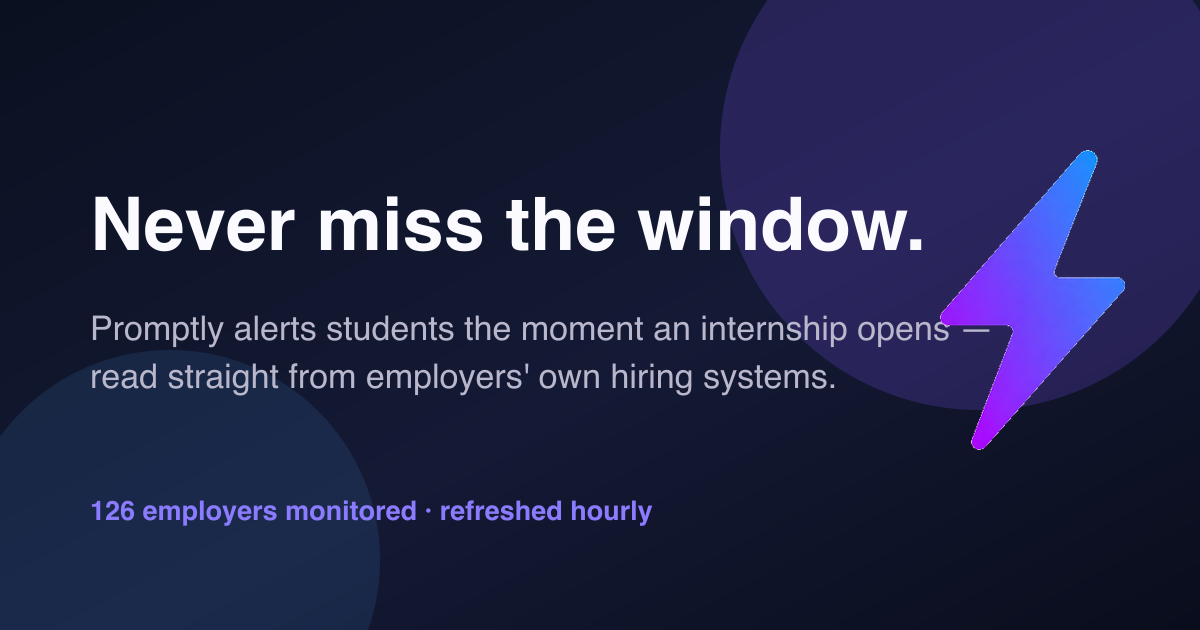
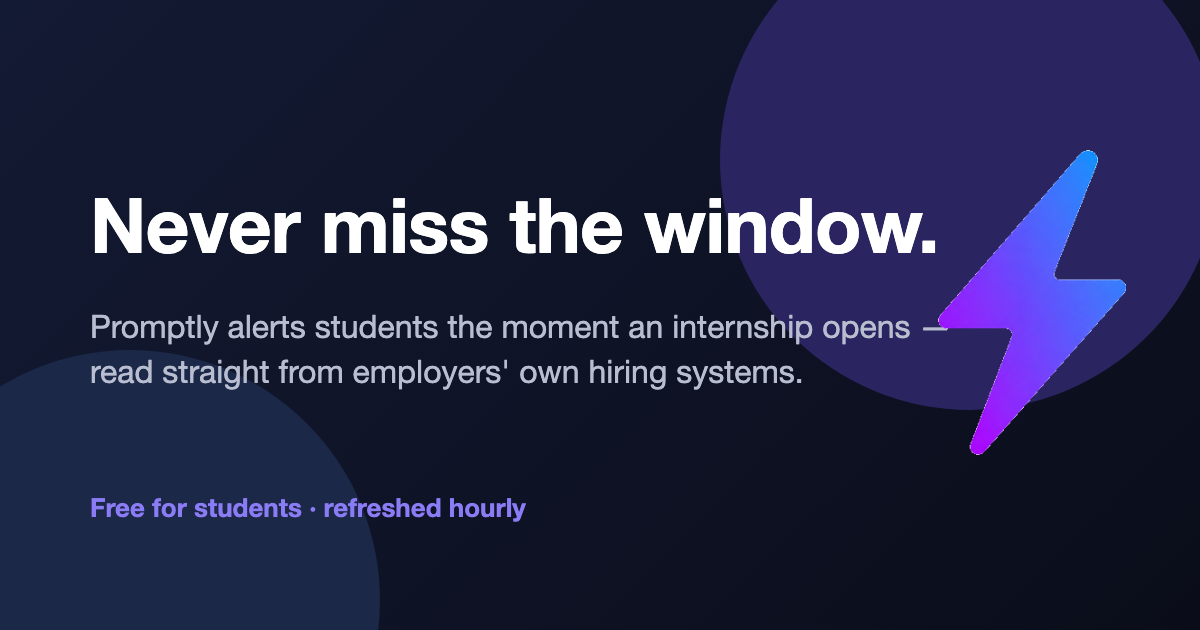
Replace stale 126-employer count on social share card
The OG/Twitter card image still said 126 employers while the page says 373.
Drop the hardcoded count so it cannot go stale again, and version the image
URL so X and other crawlers refetch it.

diff --git a/index.html b/index.html
@@ -21,14 +21,14 @@
     <meta property="og:title" content="Promptly | Never miss an internship opening" />
     <meta property="og:description" content="Alerts students the moment an internship opens, read straight from employers' own hiring systems. 373 employers monitored, refreshed hourly." />
     <meta property="og:url" content="https://app.joinpromptly.co/" />
-    <meta property="og:image" content="https://app.joinpromptly.co/assets/og-card.png" />
+    <meta property="og:image" content="https://app.joinpromptly.co/assets/og-card.png?v=20260911c" />
     <meta property="og:image:width" content="1200" />
     <meta property="og:image:height" content="630" />
     <meta property="og:image:alt" content="Promptly — never miss the window." />
     <meta name="twitter:card" content="summary_large_image" />
     <meta name="twitter:title" content="Promptly | Never miss an internship opening" />
     <meta name="twitter:description" content="Alerts students the moment an internship opens. 373 employers monitored, refreshed hourly." />
-    <meta name="twitter:image" content="https://app.joinpromptly.co/assets/og-card.png" />
+    <meta name="twitter:image" content="https://app.joinpromptly.co/assets/og-card.png?v=20260911c" />
     <link rel="stylesheet" href="styles.css?v=20260911c" />
   </head>
   <body class="onboarding-active launch-active">

diff --git a/how-it-works.html b/how-it-works.html
@@ -15,13 +15,13 @@
     <meta property="og:title" content="How Promptly works" />
     <meta property="og:description" content="Exactly how Promptly finds internships: which hiring systems we read, how postings are verified, and what we cannot see." />
     <meta property="og:url" content="https://app.joinpromptly.co/how-it-works" />
-    <meta property="og:image" content="https://app.joinpromptly.co/assets/og-card.png" />
+    <meta property="og:image" content="https://app.joinpromptly.co/assets/og-card.png?v=20260911c" />
     <meta property="og:image:width" content="1200" />
     <meta property="og:image:height" content="630" />
     <meta name="twitter:card" content="summary_large_image" />
     <meta name="twitter:title" content="How Promptly works" />
     <meta name="twitter:description" content="Exactly how Promptly finds internships: which hiring systems we read, how postings are verified, and what we cannot see." />
-    <meta name="twitter:image" content="https://app.joinpromptly.co/assets/og-card.png" />
+    <meta name="twitter:image" content="https://app.joinpromptly.co/assets/og-card.png?v=20260911c" />
     <link rel="stylesheet" href="styles.css?v=20260911c" />
     <style>
       .hiw { max-width: 860px; margin: 0 auto; padding: 40px 22px 90px; }

diff --git a/privacy.html b/privacy.html
@@ -15,13 +15,13 @@
     <meta property="og:title" content="Privacy — Promptly" />
     <meta property="og:description" content="What Promptly collects, what stays on your device, and what we never do with your data." />
     <meta property="og:url" content="https://app.joinpromptly.co/privacy" />
-    <meta property="og:image" content="https://app.joinpromptly.co/assets/og-card.png" />
+    <meta property="og:image" content="https://app.joinpromptly.co/assets/og-card.png?v=20260911c" />
     <meta property="og:image:width" content="1200" />
     <meta property="og:image:height" content="630" />
     <meta name="twitter:card" content="summary_large_image" />
     <meta name="twitter:title" content="Privacy — Promptly" />
     <meta name="twitter:description" content="What Promptly collects, what stays on your device, and what we never do with your data." />
-    <meta name="twitter:image" content="https://app.joinpromptly.co/assets/og-card.png" />
+    <meta name="twitter:image" content="https://app.joinpromptly.co/assets/og-card.png?v=20260911c" />
     <link rel="stylesheet" href="styles.css?v=20260911c" />
     <style>
       .legal-shell { max-width: 780px; margin: 0 auto; padding: 40px 22px 90px; }

diff --git a/terms.html b/terms.html
@@ -15,13 +15,13 @@
     <meta property="og:title" content="Terms — Promptly" />
     <meta property="og:description" content="What Promptly promises, what it does not do, and what we ask of you." />
     <meta property="og:url" content="https://app.joinpromptly.co/terms" />
-    <meta property="og:image" content="https://app.joinpromptly.co/assets/og-card.png" />
+    <meta property="og:image" content="https://app.joinpromptly.co/assets/og-card.png?v=20260911c" />
     <meta property="og:image:width" content="1200" />
     <meta property="og:image:height" content="630" />
     <meta name="twitter:card" content="summary_large_image" />
     <meta name="twitter:title" content="Terms — Promptly" />
     <meta name="twitter:description" content="What Promptly promises, what it does not do, and what we ask of you." />
-    <meta name="twitter:image" content="https://app.joinpromptly.co/assets/og-card.png" />
+    <meta name="twitter:image" content="https://app.joinpromptly.co/assets/og-card.png?v=20260911c" />
     <link rel="stylesheet" href="styles.css?v=20260911c" />
     <style>
       .legal-shell { max-width: 780px; margin: 0 auto; padding: 40px 22px 90px; }
